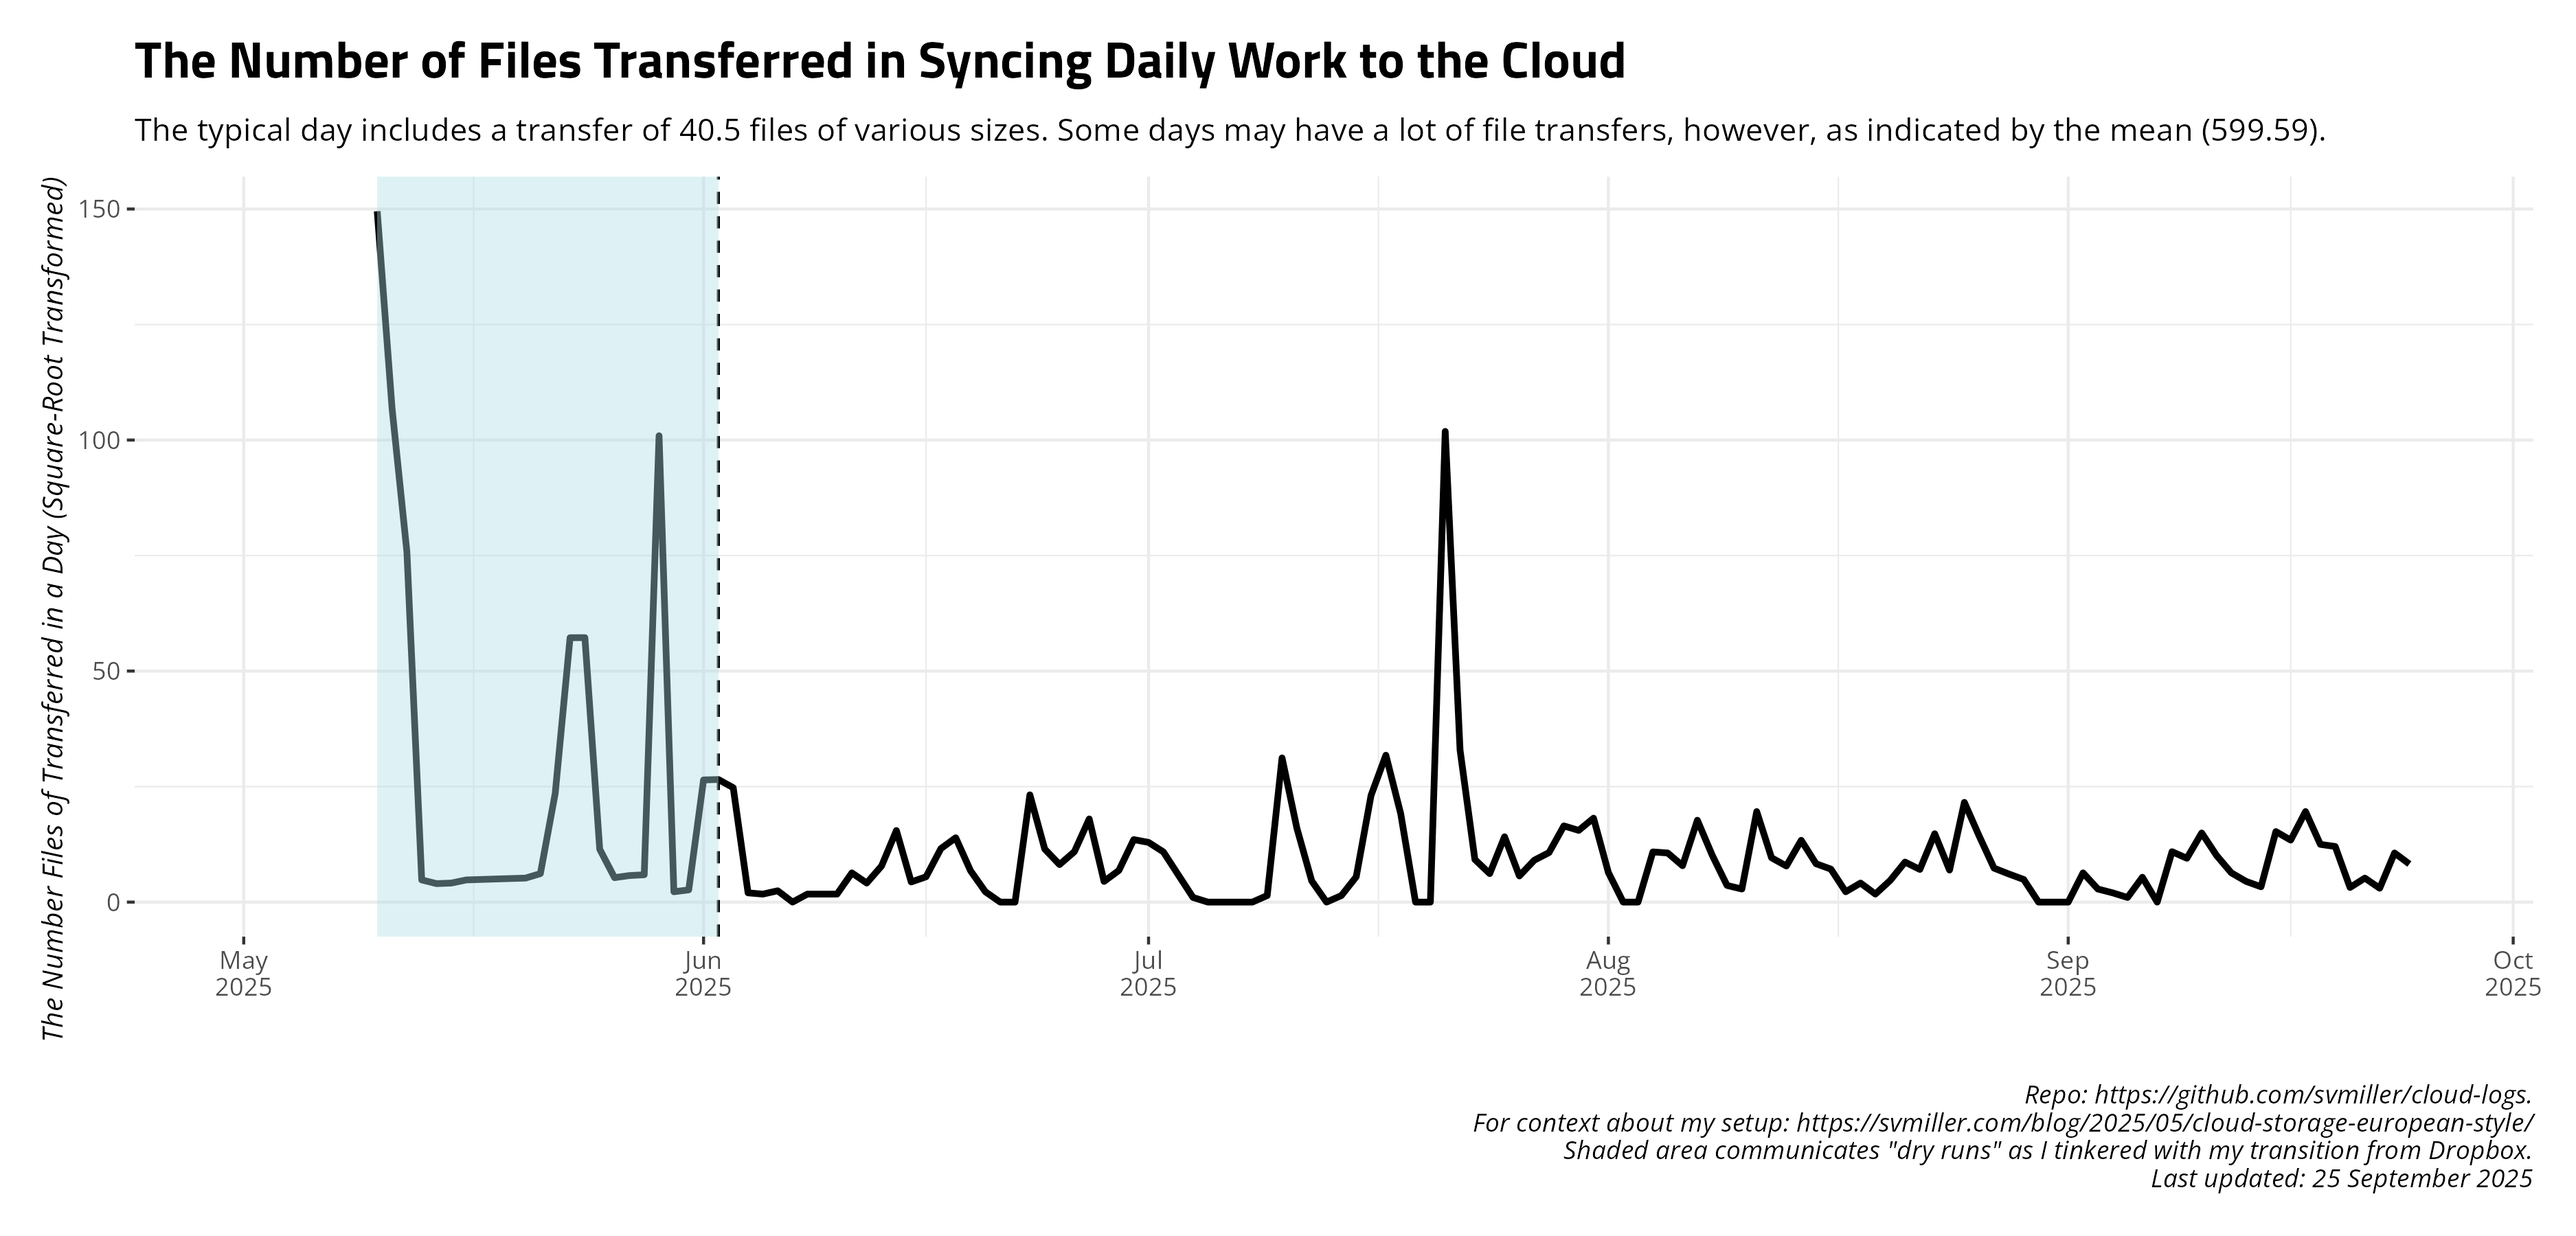
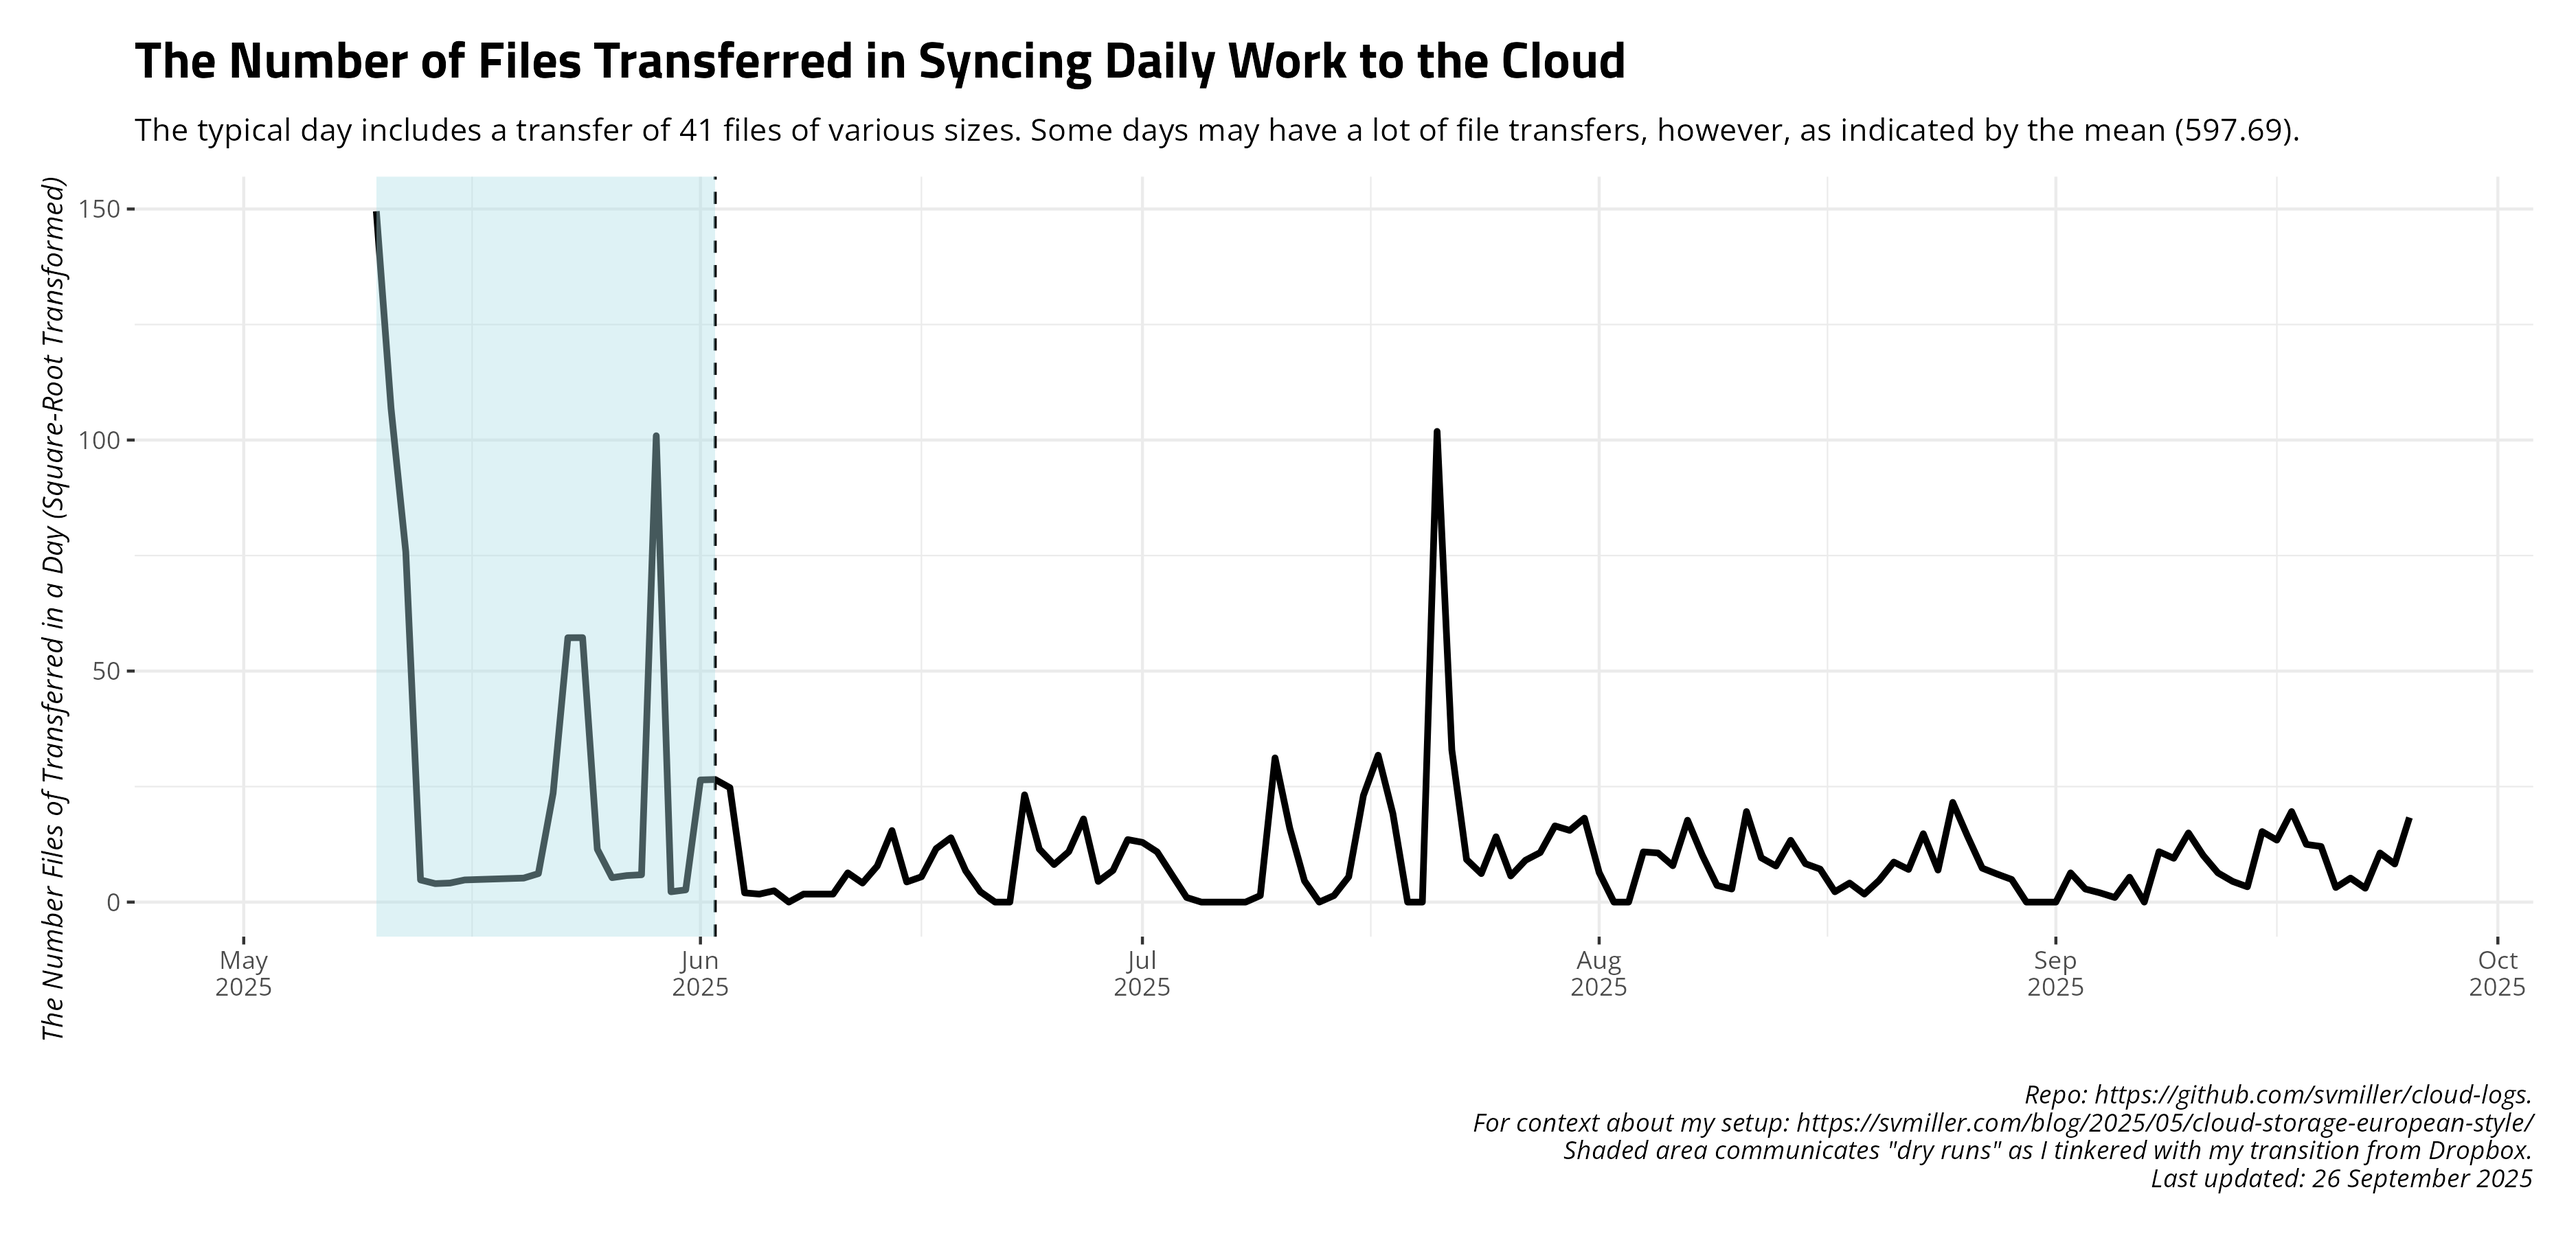
Date: 2025-09-26 09:00:13. Hi mom!

diff --git a/README.md b/README.md
@@ -27,17 +27,17 @@ and uploads to Github.
     #> # A tibble: 14 × 4
     #>    date       ftransfer stransfer   elapsed
     #>    <date>         <dbl> <chr>       <chr>  
-    #>  1 2025-09-11       102 1.420 MiB   4m58.7s
-    #>  2 2025-09-12        40 513.224 KiB 4m53.9s
-    #>  3 2025-09-13        20 351.011 KiB 4m47.3s
-    #>  4 2025-09-14        11 124.986 KiB 5m19.2s
-    #>  5 2025-09-15       233 116.284 MiB 5m17.2s
-    #>  6 2025-09-16       180 17.775 MiB  4m38.3s
-    #>  7 2025-09-17       384 10.375 MiB  4m40.4s
-    #>  8 2025-09-18       156 2.882 MiB   4m45.7s
-    #>  9 2025-09-19       145 121.392 MiB 4m37.2s
-    #> 10 2025-09-20        10 13.771 KiB  4m44.8s
-    #> 11 2025-09-21        27 314.652 KiB 5m1.5s 
-    #> 12 2025-09-22         9 8.336 MiB   5m26.1s
-    #> 13 2025-09-23       113 1.845 MiB   4m10.1s
-    #> 14 2025-09-24        68 3.056 MiB   5m9.6s
+    #>  1 2025-09-12        40 513.224 KiB 4m53.9s
+    #>  2 2025-09-13        20 351.011 KiB 4m47.3s
+    #>  3 2025-09-14        11 124.986 KiB 5m19.2s
+    #>  4 2025-09-15       233 116.284 MiB 5m17.2s
+    #>  5 2025-09-16       180 17.775 MiB  4m38.3s
+    #>  6 2025-09-17       384 10.375 MiB  4m40.4s
+    #>  7 2025-09-18       156 2.882 MiB   4m45.7s
+    #>  8 2025-09-19       145 121.392 MiB 4m37.2s
+    #>  9 2025-09-20        10 13.771 KiB  4m44.8s
+    #> 10 2025-09-21        27 314.652 KiB 5m1.5s 
+    #> 11 2025-09-22         9 8.336 MiB   5m26.1s
+    #> 12 2025-09-23       113 1.845 MiB   4m10.1s
+    #> 13 2025-09-24        68 3.056 MiB   5m9.6s 
+    #> 14 2025-09-25       335 16.829 MiB  5m20.3s
